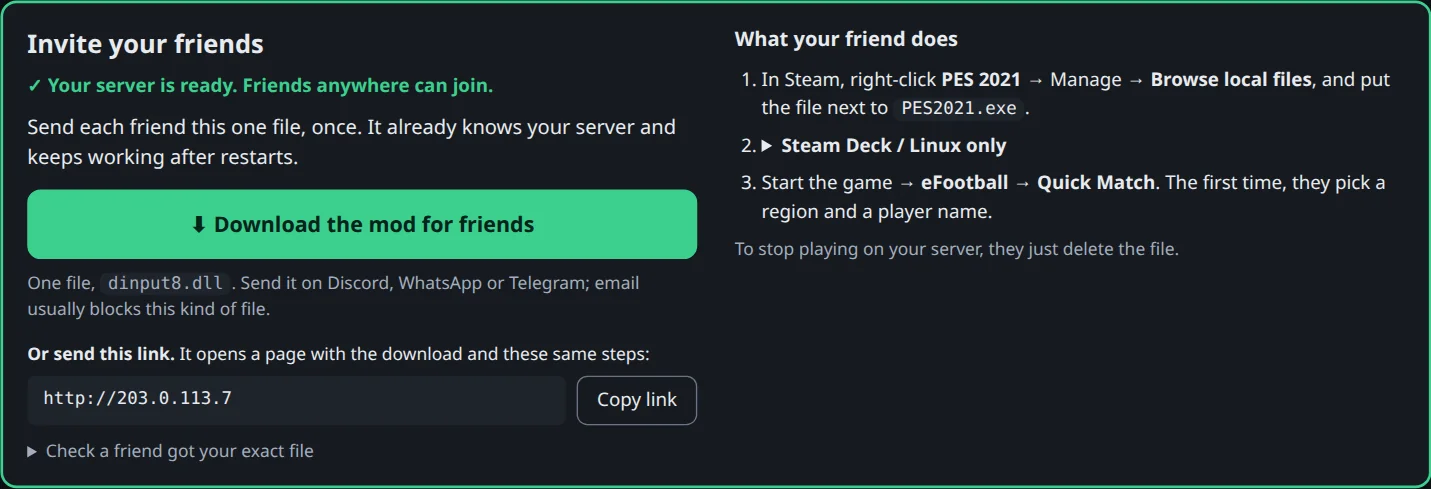
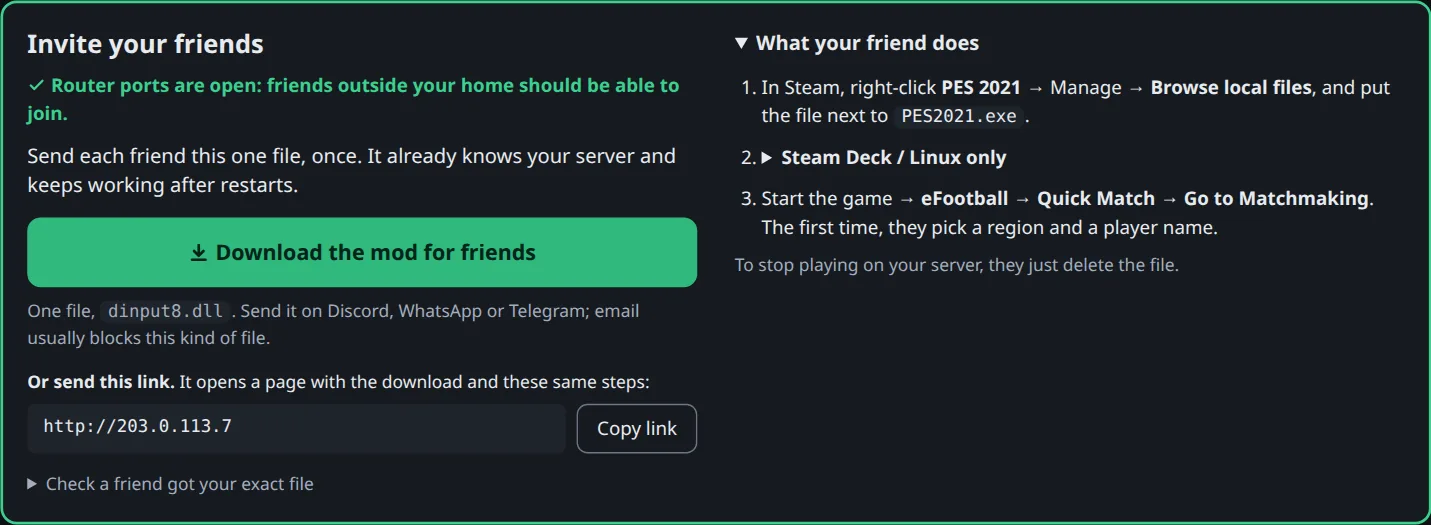
Installer keeps earlier settings; site round 21
- install.sh: re-running it (to update) keeps PUBLIC_IP, ADMIN_REMOTE and
  UPNP from the running container unless they're given again; an empty
  value clears one. Before, a cloud or Tailscale host who updated lost
  the fixed address (and, behind NAT, the admin page).
- Site: update and cloud steps say so; the cloud admin address is the
  public one (no "from anywhere" line with PUBLIC_IP); "may ask for your
  password".
- Admin screenshots re-shot from the current page (fresh-server invite
  card for step 2, a server with matches for the full view).
- protocol.html: Docker Desktop and internet clients tagged INFERRED, not
  LIVE; changelog entry for today's changes.

Claude-Session: https://claude.ai/code/session_01W5SLBoQcpZRfLZ5A6DyezJ

diff --git a/docs/index.html b/docs/index.html
@@ -428,7 +428,7 @@ footer a { color: var(--muted); display: inline-block; padding: 3px 0; }
                 <li>Open its web console (or SSH), paste this version of the install line and press Enter. In most web consoles you paste with <b>Ctrl+Shift+V</b> or right-click → Paste.
                   <div class="cmd" style="margin-top:8px"><pre id="c-cloud-q">curl -fsSL https://<wbr>raw.<wbr>githubusercontent.<wbr>com/<wbr>MohamedAliRashad/<wbr>pes2021-private-server/<wbr>main/<wbr>install.<wbr>sh | PUBLIC_IP=$(curl -fsS https://<wbr>api.<wbr>ipify.<wbr>org) ADMIN_REMOTE=1 sh</pre><button class="copy" data-copy="c-cloud-q" type="button">Copy</button></div>
                   It looks up the server's public address and lets you open the admin page from home. The admin page isn't encrypted, so don't sign in from public Wi-Fi. <a href="#faq-cloud">More about cloud hosting</a>.</li>
-                <li>Open the admin page address it prints (if it shows a "from anywhere" line, use that) and download the mod for your friends.</li>
+                <li>Open the admin page address it prints (it's your server's public address) and download the mod for your friends. Keep the install line: running it again updates the server and keeps these settings.</li>
               </ol></details></li>
             <li><details><summary><b>Windows or Mac only, want it free:</b> Docker Desktop on one PC, about 20 minutes (untested)</summary>
               <ol class="inline-steps">
@@ -440,7 +440,7 @@ footer a { color: var(--muted); display: inline-block; padding: 3px 0; }
               </ol>
               <p class="inline-steps"><a href="#faq-winhost">Full steps with the exact commands</a> (which address to use, port forwarding, playing on the same PC).</p></details></li>
           </ul>
-          <p class="small muted"><b>On a Linux PC:</b> open a terminal (on Ubuntu press <b>Ctrl+Alt+T</b>, or search "Terminal" in the app menu), paste the command and press Enter. It asks for your password (sudo); nothing shows while you type it, that's normal. It installs Docker if it's missing, and when it's ready shows <b>your admin page</b> and <b>its password</b>. That's all you need.</p>
+          <p class="small muted"><b>On a Linux PC:</b> open a terminal (on Ubuntu press <b>Ctrl+Alt+T</b>, or search "Terminal" in the app menu), paste the command and press Enter. It may ask for your password (sudo); nothing shows while you type it, that's normal. It installs Docker if it's missing, and when it's ready shows <b>your admin page</b> and <b>its password</b>. That's all you need.</p>
         </div>
         <div>
           <div class="cmd"><span class="label">Linux terminal</span><pre id="c-host">curl -fsSL https://<wbr>raw.<wbr>githubusercontent.<wbr>com/<wbr>MohamedAliRashad/<wbr>pes2021-private-server/<wbr>main/<wbr>install.<wbr>sh | sh</pre><button class="copy" data-copy="c-host" type="button">Copy</button></div>
@@ -483,8 +483,8 @@ footer a { color: var(--muted); display: inline-block; padding: 3px 0; }
         </div>
         <div>
           <figure class="mini-shot">
-            <a class="light" href="admin-invite-light.webp"><img src="admin-invite-light.webp" width="1431" height="489" loading="lazy" alt="The top of the real admin page: Invite your friends, a large Download the mod for friends button, a link to send instead, and what your friend does."></a>
-            <a class="dark" href="admin-invite-dark.webp"><img src="admin-invite-dark.webp" width="1431" height="489" loading="lazy" alt="The top of the real admin page in dark mode: Invite your friends, a large Download the mod for friends button, a link to send instead, and what your friend does."></a>
+            <a class="light" href="admin-invite-light.webp"><img src="admin-invite-light.webp" width="1431" height="525" loading="lazy" alt="The top of the real admin page: Invite your friends, a large Download the mod for friends button, a link to send instead, and what your friend does."></a>
+            <a class="dark" href="admin-invite-dark.webp"><img src="admin-invite-dark.webp" width="1431" height="525" loading="lazy" alt="The top of the real admin page in dark mode: Invite your friends, a large Download the mod for friends button, a link to send instead, and what your friend does."></a>
             <figcaption class="small muted">Click or tap to enlarge.</figcaption>
           </figure>
           <p class="small muted"><b>Playing on the same PC?</b> If the installer found PES 2021 on it, the admin page has a <b>The server computer</b> card: close the game and click <b>Install mod</b>.</p>
@@ -559,8 +559,8 @@ footer a { color: var(--muted); display: inline-block; padding: 3px 0; }
       </div>
     </div>
     <figure class="shot">
-      <a class="light" href="admin-light.webp"><img src="admin-light.webp" width="1475" height="1434" loading="lazy" alt="The admin page: an Invite your friends card with the mod download, players online, a live match in the second half, an activity feed and the network card."></a>
-      <a class="dark" href="admin-dark.webp"><img src="admin-dark.webp" width="1475" height="1434" loading="lazy" alt="The admin page in dark mode: an Invite your friends card with the mod download, players online, a live match in the second half, an activity feed and the network card."></a>
+      <a class="light" href="admin-light.webp"><img src="admin-light.webp" width="1474" height="1434" loading="lazy" alt="The admin page once friends are playing: a compact Invite more friends card with the mod download, players online with who they're playing, a live match in the second half, an activity feed and the network card."></a>
+      <a class="dark" href="admin-dark.webp"><img src="admin-dark.webp" width="1474" height="1434" loading="lazy" alt="The admin page in dark mode once friends are playing: a compact Invite more friends card with the mod download, players online with who they're playing, a live match in the second half, an activity feed and the network card."></a>
       <figcaption>The real admin page, filled with made-up demo players and scores. Tap to open it full size.</figcaption>
     </figure>
   </div>
@@ -676,7 +676,7 @@ footer a { color: var(--muted); display: inline-block; padding: 3px 0; }
       <ul>
         <li>Show the admin page and password again: <code>sudo docker logs pesserver</code></li>
         <li>Restart: <code>sudo docker restart pesserver</code> · Stop: <code>sudo docker stop pesserver</code> (this also closes the router ports it opened)</li>
-        <li>Update to the latest version: run the install line again. Players, results and your server's identity are kept, so friends' files keep working.</li>
+        <li>Update to the latest version: run the install line again. It keeps the settings you gave the first time (<code>PUBLIC_IP</code>, <code>ADMIN_REMOTE</code>); to clear one, give it empty, for example <code>… | ADMIN_REMOTE= sh</code>. Players, results and your server's identity are kept, so friends' files keep working.</li>
         <li>Remove everything: first click <b>Uninstall</b> on the admin page's server-computer card (if you used it), then <code>sudo docker stop pesserver &amp;&amp; sudo docker rm pesserver; sudo docker volume rm pesserver-data; sudo docker rmi ghcr.io/mohamedalirashad/pes2021-private-server</code> (deletes players and results, and the server's identity, so old mod files stop working; Docker itself stays installed).</li>
       </ul>
       <p>If your user is in the <code>docker</code> group you can leave out <code>sudo</code>.</p>
@@ -700,7 +700,7 @@ footer a { color: var(--muted); display: inline-block; padding: 3px 0; }
           <div class="cmd" style="margin-top:8px"><pre id="c-cloud">curl -fsSL https://<wbr>raw.<wbr>githubusercontent.<wbr>com/<wbr>MohamedAliRashad/<wbr>pes2021-private-server/<wbr>main/<wbr>install.<wbr>sh | PUBLIC_IP=$(curl -fsS https://<wbr>api.<wbr>ipify.<wbr>org) ADMIN_REMOTE=1 sh</pre><button class="copy" data-copy="c-cloud" type="button">Copy</button></div>
           The admin page isn't encrypted, so its password crosses the internet in the clear: keep the generated password, and don't sign in from public Wi-Fi.</li>
         <li>The command looks up the server's public address (with the free ipify service) and gives it to players, because a cloud server has no home router to ask. The admin page then shows that fixed address; the ports you opened in step 2 are what let friends in.</li>
-        <li>Open the admin page at the address the banner shows (if it shows a "from anywhere" line, use that one) and download the mod for your friends.</li>
+        <li>Open the admin page at the address the banner shows (it's your server's public address) and download the mod for your friends.</li>
       </ol>
       <p>The match itself still runs directly between the two players' PCs, so a cloud server doesn't fix "Failed to connect with opponent". It does keep login and matchmaking reachable for everyone.</p>
     </details>

diff --git a/docs/protocol.html b/docs/protocol.html
@@ -367,8 +367,8 @@ code{overflow-wrap:anywhere} .note a, .panel a{color:var(--accent)}
 <p class="totop"><a href="#contents">↑ Back to contents</a></p>
 <h2 id="deploy">Deployment</h2>
 <div class="panel"><ol>
-  <li>Host (Linux): <code>curl -fsSL …/install.sh | sh</code> installs Docker if needed and runs the server image (published as <code>ghcr.io/mohamedalirashad/pes2021-private-server</code>; built from the repo when it can't be pulled) with host networking. No configuration: <code>netsetup.py</code> finds the LAN IP, asks the router for its external IP and opens TCP 80/443/8080/10000 + UDP 3478/7600 over UPnP IGD (renewed every 30 min, removed on stop), checks the public IP against a what-is-my-IP service to detect CGNAT, and prints the admin page address and password. It also looks for <code>PES2021.exe</code> (Steam libraries, <code>~/Games</code>) and bind-mounts only those folders and their Wine prefixes, for the admin page's one-click install. Docker Desktop hosts use <code>docker-compose.bridge.yml</code> with a fixed <code>PUBLIC_IP</code>. <span class="tag t-ok">LIVE</span></li>
-  <li><b>Per-client address</b>: SVRLIST / URLLIST / GAMERELAY carry the server address. Without a pinned <code>PUBLIC_IP</code>, a client from a non-global address (LAN, Tailscale 100.64/10, loopback) gets the local address its TCP connection reached (<code>sockname</code>); an internet client gets the public IP. One server serves LAN and internet players at once. <span class="tag t-ok">LIVE</span></li>
+  <li>Host (Linux): <code>curl -fsSL …/install.sh | sh</code> installs Docker if needed and runs the server image (published as <code>ghcr.io/mohamedalirashad/pes2021-private-server</code>; built from the repo when it can't be pulled) with host networking. No configuration: <code>netsetup.py</code> finds the LAN IP, asks the router for its external IP and opens TCP 80/443/8080/10000 + UDP 3478/7600 over UPnP IGD (renewed every 30 min, removed on stop), checks the public IP against a what-is-my-IP service to detect CGNAT, and prints the admin page address and password. It also looks for <code>PES2021.exe</code> (Steam libraries, <code>~/Games</code>) and bind-mounts only those folders and their Wine prefixes, for the admin page's one-click install. <span class="tag t-ok">LIVE</span> Docker Desktop hosts use <code>docker-compose.bridge.yml</code> with a fixed <code>PUBLIC_IP</code> (not tested yet). <span class="tag t-inf">INFERRED</span></li>
+  <li><b>Per-client address</b>: SVRLIST / URLLIST / GAMERELAY carry the server address. Without a pinned <code>PUBLIC_IP</code>, a client from a non-global address (LAN, Tailscale 100.64/10, loopback) gets the local address its TCP connection reached (<code>sockname</code>); <span class="tag t-ok">LIVE</span> An internet client gets the public IP, so one server can serve LAN and internet players at once (no internet client tested yet). <span class="tag t-inf">INFERRED</span></li>
   <li><b>The mod</b> (<code>server/mod/</code>, built by the image's first stage with MinGW): a <code>dinput8.dll</code> proxy (exports forwarded to the system DLL) that hooks <code>ws2_32</code> <code>getaddrinfo</code> / <code>GetAddrInfoW</code> / <code>GetAddrInfoExW</code> / <code>gethostbyname</code> for the 6 Konami names, and <code>winhttp</code> <code>WinHttpConnect</code> / <code>OpenRequest</code> / <code>SendRequest</code> for the NTL certificate exception, plus <code>WinHttpCloseHandle</code> (to forget closed handles) and <code>user32</code> <code>CreateWindowExW</code> / <code>CreateWindowExA</code> (to start the server lookup, or the Shift box, when the game's first window opens). Hooks are MinHook detours in the system DLLs; the game's own code is not touched. Loaded under Proton via <code>WINEDLLOVERRIDES="dinput8=n,b"</code> or the per-program registry override <code>[Software\\Wine\\AppDefaults\\PES2021.exe\\DllOverrides] "dinput8"="native,builtin"</code>, which the admin page writes into the prefix's <code>user.reg</code>. <span class="tag t-ok">LIVE</span></li>
   <li><b>Server identity</b>: an Ed25519 key in the data volume. <code>/mod/dinput8.dll</code> writes the public key and the server's addresses into a 2 KB reserved section of the DLL (<code>.pescfg</code>). Before using an address the mod GETs <code>/mod/hello?n=&lt;random nonce&gt;</code> and checks the signature (Monocypher); to find the server again it fetches a signed <code>/mod/note</code> (time + addresses) and ignores notes not signed by that key or older than the last one seen. Tested in the game: fresh download, dead web link plus wrong IP, forged note rejected. <span class="tag t-ok">LIVE</span></li>
   <li>The server still keeps the private CA (name-constrained to the four NTL host names) for players set up with the older join scripts (<code>/join</code>, <code>/ca.crt</code>); the mod doesn't use it.</li>
@@ -440,6 +440,7 @@ code{overflow-wrap:anywhere} .note a, .panel a{color:var(--accent)}
 <p class="totop"><a href="#contents">↑ Back to contents</a></p>
 <h2 id="log">Changelog</h2>
 <ul class="log">
+  <li><b>2026-11-05</b> — Cloud servers install with a fixed public address (<code>PUBLIC_IP</code> from ipify) and remote admin; re-running the installer keeps those settings. Mod: an address typed in the Shift box is fetched over plain HTTP, IP or name. Friends' page sends a hash-pinned CSP.</li>
   <li><b>2026-11-05</b> — <b>The mod replaces the join commands</b>: one <code>dinput8.dll</code> per server, no admin rights or system changes; signed server identity; admin page download and one-click install on the host's own PC; the Cloudflare tunnel was removed again (the mod never needed a web link); admin page limited to the home network.</li>
   <li><b>2026-11-05</b> — Free public web address per server (Cloudflare quick tunnel, <code>https://&lt;words&gt;.trycloudflare.com</code>) for the join page and scripts; join scripts receive the server's LAN + internet IPs and pick the one answering <code>/status</code> with the server id (sha1 of its CA). Password-protected admin page (<code>/admin</code>): online players, live matches by phase, saved results (<code>pes_matches</code>), league table, activity feed, kick. Note: the game logs in twice (ACCOUNT then MENU connection); a pairing can be abandoned with LEAVE_ROOM before kick-off and re-paired in a new room.</li>
   <li><b>2026-11-04</b> — <b>One-command hosting</b>: <code>install.sh</code> (installs Docker, runs the published image), zero-config networking (UPnP, public-IP/CGNAT detection, per-client advertised address), player setup served at <code>/join</code> and <code>/leave</code>, CA written directly into the Proton prefix registry. Tested: installer → served join script on both prefixes → fresh users → network test → matched → kick-off.</li>
